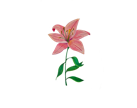
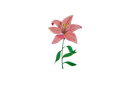
Mobile version.

diff --git a/index.html b/index.html
@@ -1,3 +1,3 @@
-<!DOCTYPE html><html><head><title></title><meta http-equiv="Content-type" content="text/html;charset=UTF-8" /><meta name="viewport" content="width=800" /><meta name="description" content="" /><meta name="generator" content="EverWeb 2.8.8 (2152)" /><meta name="buildDate" content="domingo, 2 de junio de 2024" /><link rel="canonical" href="https://gandg.art/" /><meta property="og:url" content="https://gandg.art/" /><meta property="og:type" content="website" /> <link rel="stylesheet" type="text/css" href="ew_css/textstyles.css?3800200639" /><link rel="stylesheet" type="text/css" href="ew_css/responsive.css?3800200639" /><script type="text/javascript" src="ew_js/imageCode.js"></script><style type="text/css">a img {border:0px;}body {background: url('images/gngloveart/browser/Fondo_Web-3.jpg') no-repeat center center fixed;-webkit-background-size: cover;-moz-background-size: cover;-o-background-size: cover;background-size: cover;background-color: #FFFEFE;margin: 0px auto;}div.container {margin: 0px auto;width: 800px;height: 1209px;}@media all and (max-device-width: 768px),(max-device-width: 568px),(max-device-width: 480px),(max-device-width: 667px),(max-device-width: 736px),(max-device-width: 360px)   {body {background: url('images/gngloveart/browser/Fondo_Web-3-768px.jpg') no-repeat center center fixed;-webkit-background-size: cover;-moz-background-size: cover;-o-background-size: cover;background-size: cover;background-color: #FFFEFE;}}.shape_0 {background-color:#FEFEFF;opacity: 1.00; filter:alpha(opacity=100);}#navmenu_menu0 {clear:both;float:left;margin:0;padding:0;width:100%;font-family:'Georgia',serif;font-size:19px;z-index:1000;}#navmenu_menu0 ul {margin:0;padding:0;list-style:none;position:relative;}#navmenu_menu0 ul li {margin:0 15px 0 0;padding:0;float:left;position:relative;}#navmenu_menu0 ul li a {display:block;margin:0;padding:11px;height: 44px;line-height: 44px;text-decoration:none;color:#FFFEFE;text-align: left;}#navmenu_menu0 ul li a:visited {text-decoration:none;color:#FFFEFE;}#navmenu_menu0 ul li a:hover {text-decoration:underline;color:#FFFEFE;}#navmenu_menu0 ul li:hover a,#navmenu_menu0 ul li.hover a {text-decoration:underline;color:#FFFEFE;}#navmenu_menu0 ul ul {z-index:11010;display:none;position:absolute;left:0;float:left;right:auto;padding-top:2px;}#navmenu_menu0 ul ul li {left:auto;margin:0;clear:left;float:left;width:100%;}#navmenu_menu0 ul ul li a,#navmenu_menu0 ul li.active li a,#navmenu_menu0 ul li:hover ul li a,#navmenu_menu0 ul li.hover ul li a {background:#FFFEFE;text-decoration:none;color:#FFFEFE;padding-top:0px;padding-bottom:0px;border-bottom:1px solid #000000;float:left;width:100%;text-align: left;white-space:nowrap;}#navmenu_menu0 ul ul li a:hover,#navmenu_menu0 ul li.active ul li a:hover,#navmenu_menu0 ul li:hover ul li a:hover,#navmenu_menu0 ul li.hover ul li a:hover {background:#FFFEFE;text-decoration:underline;color:#FFFEFE;float:left;}#navmenu_menu0 ul li.last ul {left:auto; right:0;}#navmenu_menu0 ul li.last ul li {float:right;position:relative;right:22px;}#navmenu_menu0 ul li:hover ul,#navmenu_menu0 ul li.hover ul {display:block;}</style></head><body><div class="container" style="height:1209px"><div class="content" data-minheight="500"><div style="position:relative"><div class="shape_0" style="left:1px;top:101px;width:520px;height:619px;z-index:0;position: absolute;"></div></div><div style="position:relative"><div class="shape_1" style="left:562.5078px;top:305.625px;width:237px;height:241px;z-index:1;position: absolute;"><img src="images/gngloveart/Logo_Turquesa.jpg" height="241" width="237" data-src2x="images/gngloveart/Logo_Turquesa@2x.jpg" srcset="images/gngloveart/Logo_Turquesa.jpg 1x, images/gngloveart/Logo_Turquesa@2x.jpg 2x" /></div></div><div style="position:relative"><a href="https://www.etsy.com/shop/GnGLoveArt/" class="outerlink"><div class="shape_2" style="left:396.5px;top:704.4375px;width:74px;height:59px;z-index:2;position: absolute;"><img src="images/gngloveart/Unknown-1-1.png" height="59" width="74" data-src2x="images/gngloveart/Unknown-1-1@2x.png" srcset="images/gngloveart/Unknown-1-1.png 1x, images/gngloveart/Unknown-1-1@2x.png 2x" /></div></a></div><div style="position:relative"><a href="https://www.amazon.es/Gema-Sánchez-Hernández/e/B083Q1P8VY?ref_=dbs_p_ebk_r00_abau_000000" class="outerlink"><div class="shape_3" style="left:47px;top:703.9685px;width:67px;height:60px;z-index:3;position: absolute;"><img src="images/gngloveart/Unknown.png" height="60" width="67" data-src2x="images/gngloveart/Unknown@2x.png" srcset="images/gngloveart/Unknown.png 1x, images/gngloveart/Unknown@2x.png 2x" /></div></a></div><div style="position:relative"><div class="shape_4" style="left:25px;top:126px;width:153px;height:153px;z-index:4;position: absolute;"><img src="images/gngloveart/DC1837AA-C5C0-4EF5-87EA-86BF50CD319F.png" height="153" width="153" data-src2x="images/gngloveart/DC1837AA-C5C0-4EF5-87EA-86BF50CD319F@2x.png" srcset="images/gngloveart/DC1837AA-C5C0-4EF5-87EA-86BF50CD319F.png 1x, images/gngloveart/DC1837AA-C5C0-4EF5-87EA-86BF50CD319F@2x.png 2x" /></div></div><div style="position:relative"><div class="shape_5" style="left:22.4375px;top:509.7498px;width:466px;height:76px;z-index:5;position: absolute;"><div style="padding: 2.16px 2.16px 2.16px 2.16px; "><p style="line-height:61px;margin-top:0px;margin-bottom:11px;" class="Style1">Yo soy la alegría de vivir en acción</p></div></div></div><div style="position:relative"><a href="https://www.amazon.es/Gema-Sánchez-Hernández/e/B083Q1P8VY?ref_=dbs_p_ebk_r00_abau_000000" class="outerlink"><div class="shape_6" style="left:25px;top:573px;width:121px;height:121px;z-index:6;position: absolute;"><img src="images/gngloveart/Libros_E_Ilustraciones 2.jpg" height="121" width="121" data-src2x="images/gngloveart/Libros_E_Ilustraciones 2@2x.jpg" srcset="images/gngloveart/Libros_E_Ilustraciones%202.jpg 1x, images/gngloveart/Libros_E_Ilustraciones%202@2x.jpg 2x" /></div></a></div><div style="position:relative"><a href="https://gabalz.gandg.ai" class="outerlink"><div class="shape_7" style="left:201px;top:573px;width:121px;height:121px;z-index:7;position: absolute;"><img src="images/gngloveart/Azucena 2.jpeg" height="121" width="121" data-src2x="images/gngloveart/Azucena 2@2x.jpeg" srcset="images/gngloveart/Azucena%202.jpeg 1x, images/gngloveart/Azucena%202@2x.jpeg 2x" /></div></a></div><div style="position:relative"><a href="https://www.etsy.com/shop/GnGLoveArt/" class="outerlink"><div class="shape_8" style="left:371px;top:573px;width:121px;height:121px;z-index:8;position: absolute;"><img src="images/gngloveart/Libros_E_Ilustraciones.jpg" height="121" width="121" data-src2x="images/gngloveart/Libros_E_Ilustraciones@2x.jpg" srcset="images/gngloveart/Libros_E_Ilustraciones.jpg 1x, images/gngloveart/Libros_E_Ilustraciones@2x.jpg 2x" /></div></a></div><div style="position:relative"><div class="shape_9" style="left:26px;top:297.1249px;width:486px;height:207px;z-index:9;position: absolute;"><div style="padding: 2.16px 2.16px 2.16px 2.16px; "><p style="line-height:24px;margin-top:0px;margin-bottom:14px;" class="Style2">Hola soy feliz de estar presente para compartir contigo la luz de mis historias. Escribir para mí es alquímico, me ayuda a poner luz en las sombras, me conecta con mi realidad, me permite viajar a otros mundos, conocer otras realidades, ser empática con lo que más me cuesta, estar abierta a lo desconocido y entregarle al mundo todo esto que recibo con tanta satisfacción. Me apasiona lo que hago, creo en la magia del amor y estoy felizmente casada con un genio de las matemáticas.   Gracias por leerme.</p></div></div></div><div style="position:relative"><div class="ewnavmenu" id="navmenu_menu0" style="left:609.75px;top:104px;height:390px;width:120px;z-index:10010;position: absolute;"><ul id="navigation_menu0"></ul></div></div><div style="position:relative"><div class="shape_11" style="left:562.0137px;top:546.0625px;width:238px;height:182px;z-index:11;position: absolute;"><img src="images/gngloveart/shape_11.png" height="182" width="238" alt="(placeholder)" data-src2x="images/gngloveart/shape_11@2x.png" srcset="images/gngloveart/shape_11.png 1x, images/gngloveart/shape_11@2x.png 2x" /></div></div><div style="position:relative"><div class="shape_12" style="left:562.0117px;top:102.2187px;width:238px;height:203px;z-index:12;position: absolute;"><img src="images/gngloveart/shape_12.png" height="203" width="238" alt="(placeholder)" data-src2x="images/gngloveart/shape_12@2x.png" srcset="images/gngloveart/shape_12.png 1x, images/gngloveart/shape_12@2x.png 2x" /></div></div><div style="position:relative"><div class="shape_13" style="left:186.4356px;top:117.625px;width:315px;height:143px;z-index:13;position: absolute;"><img src="images/gngloveart/Ilustracion_sin_titulo.jpeg" height="143" width="315" data-src2x="images/gngloveart/Ilustracion_sin_titulo@2x.jpeg" srcset="images/gngloveart/Ilustracion_sin_titulo.jpeg 1x, images/gngloveart/Ilustracion_sin_titulo@2x.jpeg 2x" /></div></div><div style="position:relative"><div class="shape_14" style="left:584.5002px;top:538px;width:199px;height:270px;z-index:14;position: absolute;"><img src="images/gngloveart/2_Rosa_Pleyadiana_Conexion-1.png" height="270" width="199" data-src2x="images/gngloveart/2_Rosa_Pleyadiana_Conexion-1@2x.png" srcset="images/gngloveart/2_Rosa_Pleyadiana_Conexion-1.png 1x, images/gngloveart/2_Rosa_Pleyadiana_Conexion-1@2x.png 2x" /></div></div><div style="position:relative"><div class="shape_15" style="left:487.5002px;top:614.0313px;width:75px;height:124px;z-index:15;position: absolute;"><img src="images/gngloveart/Amapola.png" height="124" width="75" data-src2x="images/gngloveart/Amapola@2x.png" srcset="images/gngloveart/Amapola.png 1x, images/gngloveart/Amapola@2x.png 2x" /></div></div><div style="position:relative"><div class="shape_16" style="left:447px;top:103px;width:125px;height:125px;z-index:16;position: absolute;"><img src="images/gngloveart/La_Mariposa.png" height="125" width="125" data-src2x="images/gngloveart/La_Mariposa@2x.png" srcset="images/gngloveart/La_Mariposa.png 1x, images/gngloveart/La_Mariposa@2x.png 2x" /></div></div><div style="position:relative"><a href="https://www.youtube.com/@gemasanchezescritora?app=desktop" class="outerlink"><div class="shape_17" style="left:225.625px;top:704.625px;width:69px;height:67px;z-index:17;position: absolute;"><img src="images/gngloveart/Unknown-2.png" height="67" width="69" data-src2x="images/gngloveart/Unknown-2@2x.png" srcset="images/gngloveart/Unknown-2.png 1x, images/gngloveart/Unknown-2@2x.png 2x" /></div></a></div><div style="position:relative"><div class="shape_18" style="left:595.4687px;top:553.25px;width:175px;height:42px;z-index:18;position: absolute;"><div style="padding: 0px 2.16px 0px 2.16px; "><p style="line-height:31px;text-align:center;margin-top:0px;margin-bottom:11px;" class="Style3">Gema Sánchez</p></div></div></div><div style="position:relative"><div style="left:12px;top:794.5px;height:315px;width:560px;position: absolute;z-index: 19;" class=""><!--560--!>
+<!DOCTYPE html><html><head><title></title><script type="text/javascript" src="ew_js/mobileRedirect.js"></script><script type="text/javascript">redirectURL('/gngloveart-movil.html');</script><link rel="alternate" media="only screen and (max-width: 700px)" href="/gngloveart-movil.html" /><meta http-equiv="Content-type" content="text/html;charset=UTF-8" /><meta name="viewport" content="width=800" /><meta name="description" content="" /><meta name="generator" content="EverWeb 2.8.8 (2152)" /><meta name="buildDate" content="domingo, 2 de junio de 2024" /><link rel="canonical" href="https://gandg.art/" /><meta property="og:url" content="https://gandg.art/" /><meta property="og:type" content="website" /> <link rel="stylesheet" type="text/css" href="ew_css/textstyles.css?3800204054" /><link rel="stylesheet" type="text/css" href="ew_css/responsive.css?3800204054" /><script type="text/javascript" src="ew_js/imageCode.js"></script><style type="text/css">a img {border:0px;}body {background: url('images/gngloveart/browser/Fondo_Web-3.jpg') no-repeat center center fixed;-webkit-background-size: cover;-moz-background-size: cover;-o-background-size: cover;background-size: cover;background-color: #FFFEFE;margin: 0px auto;}div.container {margin: 0px auto;width: 800px;height: 1209px;}@media all and (max-device-width: 768px),(max-device-width: 568px),(max-device-width: 480px),(max-device-width: 667px),(max-device-width: 736px),(max-device-width: 360px)   {body {background: url('images/gngloveart/browser/Fondo_Web-3-768px.jpg') no-repeat center center fixed;-webkit-background-size: cover;-moz-background-size: cover;-o-background-size: cover;background-size: cover;background-color: #FFFEFE;}}.shape_0 {background-color:#FEFEFF;opacity: 1.00; filter:alpha(opacity=100);}#navmenu_menu0 {clear:both;float:left;margin:0;padding:0;width:100%;font-family:'Georgia',serif;font-size:19px;z-index:1000;}#navmenu_menu0 ul {margin:0;padding:0;list-style:none;position:relative;}#navmenu_menu0 ul li {margin:0 15px 0 0;padding:0;float:left;position:relative;}#navmenu_menu0 ul li a {display:block;margin:0;padding:11px;height: 44px;line-height: 44px;text-decoration:none;color:#FFFEFE;text-align: left;}#navmenu_menu0 ul li a:visited {text-decoration:none;color:#FFFEFE;}#navmenu_menu0 ul li a:hover {text-decoration:underline;color:#FFFEFE;}#navmenu_menu0 ul li:hover a,#navmenu_menu0 ul li.hover a {text-decoration:underline;color:#FFFEFE;}#navmenu_menu0 ul ul {z-index:11010;display:none;position:absolute;left:0;float:left;right:auto;padding-top:2px;}#navmenu_menu0 ul ul li {left:auto;margin:0;clear:left;float:left;width:100%;}#navmenu_menu0 ul ul li a,#navmenu_menu0 ul li.active li a,#navmenu_menu0 ul li:hover ul li a,#navmenu_menu0 ul li.hover ul li a {background:#FFFEFE;text-decoration:none;color:#FFFEFE;padding-top:0px;padding-bottom:0px;border-bottom:1px solid #000000;float:left;width:100%;text-align: left;white-space:nowrap;}#navmenu_menu0 ul ul li a:hover,#navmenu_menu0 ul li.active ul li a:hover,#navmenu_menu0 ul li:hover ul li a:hover,#navmenu_menu0 ul li.hover ul li a:hover {background:#FFFEFE;text-decoration:underline;color:#FFFEFE;float:left;}#navmenu_menu0 ul li.last ul {left:auto; right:0;}#navmenu_menu0 ul li.last ul li {float:right;position:relative;right:22px;}#navmenu_menu0 ul li:hover ul,#navmenu_menu0 ul li.hover ul {display:block;}</style></head><body><div class="container" style="height:1209px"><div class="content" data-minheight="500"><div style="position:relative"><div class="shape_0" style="left:1px;top:101px;width:520px;height:619px;z-index:0;position: absolute;"></div></div><div style="position:relative"><div class="shape_1" style="left:546.5078px;top:305.625px;width:237px;height:241px;z-index:1;position: absolute;"><img src="images/gngloveart/Logo_Turquesa.jpg" height="241" width="237" data-src2x="images/gngloveart/Logo_Turquesa@2x.jpg" srcset="images/gngloveart/Logo_Turquesa.jpg 1x, images/gngloveart/Logo_Turquesa@2x.jpg 2x" /></div></div><div style="position:relative"><a href="https://www.etsy.com/shop/GnGLoveArt/" class="outerlink"><div class="shape_2" style="left:396.5px;top:704.4375px;width:74px;height:59px;z-index:2;position: absolute;"><img src="images/gngloveart/Unknown-1-1.png" height="59" width="74" data-src2x="images/gngloveart/Unknown-1-1@2x.png" srcset="images/gngloveart/Unknown-1-1.png 1x, images/gngloveart/Unknown-1-1@2x.png 2x" /></div></a></div><div style="position:relative"><a href="https://www.amazon.es/Gema-Sánchez-Hernández/e/B083Q1P8VY?ref_=dbs_p_ebk_r00_abau_000000" class="outerlink"><div class="shape_3" style="left:47px;top:703.9685px;width:67px;height:60px;z-index:3;position: absolute;"><img src="images/gngloveart/Unknown.png" height="60" width="67" data-src2x="images/gngloveart/Unknown@2x.png" srcset="images/gngloveart/Unknown.png 1x, images/gngloveart/Unknown@2x.png 2x" /></div></a></div><div style="position:relative"><div class="shape_4" style="left:25px;top:126px;width:153px;height:153px;z-index:4;position: absolute;"><img src="images/gngloveart/DC1837AA-C5C0-4EF5-87EA-86BF50CD319F.png" height="153" width="153" data-src2x="images/gngloveart/DC1837AA-C5C0-4EF5-87EA-86BF50CD319F@2x.png" srcset="images/gngloveart/DC1837AA-C5C0-4EF5-87EA-86BF50CD319F.png 1x, images/gngloveart/DC1837AA-C5C0-4EF5-87EA-86BF50CD319F@2x.png 2x" /></div></div><div style="position:relative"><div class="shape_5" style="left:22.4375px;top:509.7498px;width:466px;height:76px;z-index:5;position: absolute;"><div style="padding: 2.16px 2.16px 2.16px 2.16px; "><p style="line-height:61px;margin-top:0px;margin-bottom:11px;" class="Style1">Yo soy la alegría de vivir en acción</p></div></div></div><div style="position:relative"><a href="https://www.amazon.es/Gema-Sánchez-Hernández/e/B083Q1P8VY?ref_=dbs_p_ebk_r00_abau_000000" class="outerlink"><div class="shape_6" style="left:25px;top:573px;width:121px;height:121px;z-index:6;position: absolute;"><img src="images/gngloveart/Libros_E_Ilustraciones 2.jpg" height="121" width="121" data-src2x="images/gngloveart/Libros_E_Ilustraciones 2@2x.jpg" srcset="images/gngloveart/Libros_E_Ilustraciones%202.jpg 1x, images/gngloveart/Libros_E_Ilustraciones%202@2x.jpg 2x" /></div></a></div><div style="position:relative"><a href="https://gabalz.gandg.ai" class="outerlink"><div class="shape_7" style="left:201px;top:573px;width:121px;height:121px;z-index:7;position: absolute;"><img src="images/gngloveart/Azucena 2.jpeg" height="121" width="121" data-src2x="images/gngloveart/Azucena 2@2x.jpeg" srcset="images/gngloveart/Azucena%202.jpeg 1x, images/gngloveart/Azucena%202@2x.jpeg 2x" /></div></a></div><div style="position:relative"><a href="https://www.etsy.com/shop/GnGLoveArt/" class="outerlink"><div class="shape_8" style="left:371px;top:573px;width:121px;height:121px;z-index:8;position: absolute;"><img src="images/gngloveart/Libros_E_Ilustraciones.jpg" height="121" width="121" data-src2x="images/gngloveart/Libros_E_Ilustraciones@2x.jpg" srcset="images/gngloveart/Libros_E_Ilustraciones.jpg 1x, images/gngloveart/Libros_E_Ilustraciones@2x.jpg 2x" /></div></a></div><div style="position:relative"><div class="shape_9" style="left:26px;top:297.1249px;width:486px;height:207px;z-index:9;position: absolute;"><div style="padding: 2.16px 2.16px 2.16px 2.16px; "><p style="line-height:24px;margin-top:0px;margin-bottom:14px;" class="Style2">Hola soy feliz de estar presente para compartir contigo la luz de mis historias. Escribir para mí es alquímico, me ayuda a poner luz en las sombras, me conecta con mi realidad, me permite viajar a otros mundos, conocer otras realidades, ser empática con lo que más me cuesta, estar abierta a lo desconocido y entregarle al mundo todo esto que recibo con tanta satisfacción. Me apasiona lo que hago, creo en la magia del amor y estoy felizmente casada con un genio de las matemáticas.   Gracias por leerme.</p></div></div></div><div style="position:relative"><div class="ewnavmenu" id="navmenu_menu0" style="left:609.75px;top:104px;height:390px;width:120px;z-index:10010;position: absolute;"><ul id="navigation_menu0"></ul></div></div><div style="position:relative"><div class="shape_11" style="left:546.0137px;top:548.0625px;width:238px;height:182px;z-index:11;position: absolute;"><img src="images/gngloveart/shape_11.png" height="182" width="238" alt="(placeholder)" data-src2x="images/gngloveart/shape_11@2x.png" srcset="images/gngloveart/shape_11.png 1x, images/gngloveart/shape_11@2x.png 2x" /></div></div><div style="position:relative"><div class="shape_12" style="left:547.0117px;top:104.2187px;width:238px;height:203px;z-index:12;position: absolute;"><img src="images/gngloveart/shape_12.png" height="203" width="238" alt="(placeholder)" data-src2x="images/gngloveart/shape_12@2x.png" srcset="images/gngloveart/shape_12.png 1x, images/gngloveart/shape_12@2x.png 2x" /></div></div><div style="position:relative"><div class="shape_13" style="left:186.4356px;top:117.625px;width:315px;height:143px;z-index:13;position: absolute;"><img src="images/gngloveart/Ilustracion_sin_titulo.jpeg" height="143" width="315" data-src2x="images/gngloveart/Ilustracion_sin_titulo@2x.jpeg" srcset="images/gngloveart/Ilustracion_sin_titulo.jpeg 1x, images/gngloveart/Ilustracion_sin_titulo@2x.jpeg 2x" /></div></div><div style="position:relative"><div class="shape_14" style="left:571.5002px;top:540px;width:199px;height:270px;z-index:14;position: absolute;"><img src="images/gngloveart/2_Rosa_Pleyadiana_Conexion-1.png" height="270" width="199" data-src2x="images/gngloveart/2_Rosa_Pleyadiana_Conexion-1@2x.png" srcset="images/gngloveart/2_Rosa_Pleyadiana_Conexion-1.png 1x, images/gngloveart/2_Rosa_Pleyadiana_Conexion-1@2x.png 2x" /></div></div><div style="position:relative"><div class="shape_15" style="left:487.5002px;top:614.0313px;width:75px;height:124px;z-index:15;position: absolute;"><img src="images/gngloveart/Amapola.png" height="124" width="75" data-src2x="images/gngloveart/Amapola@2x.png" srcset="images/gngloveart/Amapola.png 1x, images/gngloveart/Amapola@2x.png 2x" /></div></div><div style="position:relative"><div class="shape_16" style="left:447px;top:103px;width:125px;height:125px;z-index:16;position: absolute;"><img src="images/gngloveart/La_Mariposa.png" height="125" width="125" data-src2x="images/gngloveart/La_Mariposa@2x.png" srcset="images/gngloveart/La_Mariposa.png 1x, images/gngloveart/La_Mariposa@2x.png 2x" /></div></div><div style="position:relative"><a href="https://www.youtube.com/@gemasanchezescritora?app=desktop" class="outerlink"><div class="shape_17" style="left:225.625px;top:704.625px;width:69px;height:67px;z-index:17;position: absolute;"><img src="images/gngloveart/Unknown-2.png" height="67" width="69" data-src2x="images/gngloveart/Unknown-2@2x.png" srcset="images/gngloveart/Unknown-2.png 1x, images/gngloveart/Unknown-2@2x.png 2x" /></div></a></div><div style="position:relative"><div class="shape_18" style="left:577.4687px;top:553.25px;width:175px;height:42px;z-index:18;position: absolute;"><div style="padding: 0px 2.16px 0px 2.16px; "><p style="line-height:31px;text-align:center;margin-top:0px;margin-bottom:11px;" class="Style3">Gema Sánchez</p></div></div></div><div style="position:relative"><div style="left:104px;top:794.5px;height:315px;width:560px;position: absolute;z-index: 19;" class=""><!--560--!>
 	<iframe width="560" height="315" src="https://www.youtube.com/embed/GpOBI6kRQx4?wmode=transparent&rel=0" frameborder="0" allowfullscreen></iframe>
-	</div></div><div style="position:relative"><div class="shape_20" style="left:260.5px;top:204px;width:137px;height:108px;z-index:20;position: absolute;"><img src="images/gngloveart/Lirio_Estrella.png" height="108" width="137" data-src2x="images/gngloveart/Lirio_Estrella@2x.png" srcset="images/gngloveart/Lirio_Estrella.png 1x, images/gngloveart/Lirio_Estrella@2x.png 2x" /></div></div><div style="position:relative"><div class="shape_21" style="left:170.4922px;top:256px;width:351px;height:50px;z-index:21;position: absolute;"><div style="padding: 4.32px 2.16px 4.32px 2.16px; "><p style="line-height:25.2px;text-align:center;margin-top:0px;margin-bottom:11px;" class="Style4">Escritora&nbsp;&nbsp; Ilustradora</p></div></div></div><div style="position:relative"><div class="shape_22" style="left:601.8751px;top:146px;width:158px;height:160px;z-index:22;position: absolute;"><img src="images/gngloveart/Gea.png" height="160" width="158" data-src2x="images/gngloveart/Gea@2x.png" srcset="images/gngloveart/Gea.png 1x, images/gngloveart/Gea@2x.png 2x" /></div></div><div style="position:relative"><div class="shape_23" style="left:398.1251px;top:460.5078px;width:104px;height:113px;z-index:23;position: absolute;"><img src="images/gngloveart/Margarita-2.png" height="113" width="104" data-src2x="images/gngloveart/Margarita-2@2x.png" srcset="images/gngloveart/Margarita-2.png 1x, images/gngloveart/Margarita-2@2x.png 2x" /></div></div></div><footer data-top='1109' data-height='100'></footer></div></body></html>
+	</div></div><div style="position:relative"><div class="shape_20" style="left:261.25px;top:210.5px;width:129px;height:87px;z-index:20;position: absolute;"><img src="images/gngloveart/Lirio_Estrella.png" height="87" width="129" data-src2x="images/gngloveart/Lirio_Estrella@2x.png" srcset="images/gngloveart/Lirio_Estrella.png 1x, images/gngloveart/Lirio_Estrella@2x.png 2x" /></div></div><div style="position:relative"><div class="shape_21" style="left:171.2186px;top:252.5px;width:341px;height:45px;z-index:21;position: absolute;"><div style="padding: 4.32px 2.16px 4.32px 2.16px; "><p style="line-height:25.2px;text-align:center;margin-top:0px;margin-bottom:11px;" class="Style4">Escritora&nbsp;&nbsp; Ilustradora</p></div></div></div><div style="position:relative"><div class="shape_22" style="left:586.8751px;top:153px;width:158px;height:160px;z-index:22;position: absolute;"><img src="images/gngloveart/Gea.png" height="160" width="158" data-src2x="images/gngloveart/Gea@2x.png" srcset="images/gngloveart/Gea.png 1x, images/gngloveart/Gea@2x.png 2x" /></div></div><div style="position:relative"><div class="shape_23" style="left:398.1251px;top:460.5078px;width:104px;height:113px;z-index:23;position: absolute;"><img src="images/gngloveart/Margarita-2.png" height="113" width="104" data-src2x="images/gngloveart/Margarita-2@2x.png" srcset="images/gngloveart/Margarita-2.png 1x, images/gngloveart/Margarita-2@2x.png 2x" /></div></div></div><footer data-top='1109' data-height='100'></footer></div></body></html>

diff --git a/gngloveart-movil.html b/gngloveart-movil.html
@@ -1,0 +1,3 @@
+<!DOCTYPE html><html><head><title></title><link rel="canonical" href="/index.html" /><meta http-equiv="Content-type" content="text/html;charset=UTF-8" /><meta name="viewport" content="width=480, user-scalable=no" /><meta name="description" content="" /><meta name="generator" content="EverWeb 2.8.8 (2152)" /><meta name="buildDate" content="domingo, 2 de junio de 2024" /><meta property="og:url" content="https://gandg.art/gngloveart-movil.html" /><meta property="og:type" content="website" /> <link rel="stylesheet" type="text/css" href="ew_css/textstyles.css?3800204054" /><link rel="stylesheet" type="text/css" href="ew_css/responsive.css?3800204054" /><script type="text/javascript" src="ew_js/imageCode.js"></script><style type="text/css">a img {border:0px;}body {background: url('images/gngloveart-movil/browser/Fondo_Web-3.jpg') no-repeat center center fixed;-webkit-background-size: cover;-moz-background-size: cover;-o-background-size: cover;background-size: cover;background-color: #FFFEFE;margin: 0px auto;}div.container {margin: 0px auto;width: 480px;height: 1210px;}@media all and (max-device-width: 768px),(max-device-width: 568px),(max-device-width: 480px),(max-device-width: 667px),(max-device-width: 736px),(max-device-width: 360px)   {body {background: url('images/gngloveart-movil/browser/Fondo_Web-3-768px.jpg') no-repeat center center fixed;-webkit-background-size: cover;-moz-background-size: cover;-o-background-size: cover;background-size: cover;background-color: #FFFEFE;}}.shape_0 {background-color:#FEFEFF;opacity: 1.00; filter:alpha(opacity=100);}</style></head><body><div class="container" style="height:1210px"><div class="content" data-minheight="500"><div style="position:relative"><div class="shape_0" style="left:0px;top:103px;width:520px;height:619px;z-index:0;position: absolute;"></div></div><div style="position:relative"><a href="https://www.etsy.com/shop/GnGLoveArt/" class="outerlink"><div class="shape_1" style="left:396.5px;top:704.4375px;width:74px;height:59px;z-index:1;position: absolute;"><img src="images/gngloveart-movil/Unknown-1-1.png" height="59" width="74" data-src2x="images/gngloveart-movil/Unknown-1-1@2x.png" srcset="images/gngloveart-movil/Unknown-1-1.png 1x, images/gngloveart-movil/Unknown-1-1@2x.png 2x" /></div></a></div><div style="position:relative"><a href="https://www.amazon.es/Gema-Sánchez-Hernández/e/B083Q1P8VY?ref_=dbs_p_ebk_r00_abau_000000" class="outerlink"><div class="shape_2" style="left:47px;top:703.9685px;width:67px;height:60px;z-index:2;position: absolute;"><img src="images/gngloveart-movil/Unknown.png" height="60" width="67" data-src2x="images/gngloveart-movil/Unknown@2x.png" srcset="images/gngloveart-movil/Unknown.png 1x, images/gngloveart-movil/Unknown@2x.png 2x" /></div></a></div><div style="position:relative"><div class="shape_3" style="left:25px;top:126px;width:153px;height:153px;z-index:3;position: absolute;"><img src="images/gngloveart-movil/DC1837AA-C5C0-4EF5-87EA-86BF50CD319F.png" height="153" width="153" data-src2x="images/gngloveart-movil/DC1837AA-C5C0-4EF5-87EA-86BF50CD319F@2x.png" srcset="images/gngloveart-movil/DC1837AA-C5C0-4EF5-87EA-86BF50CD319F.png 1x, images/gngloveart-movil/DC1837AA-C5C0-4EF5-87EA-86BF50CD319F@2x.png 2x" /></div></div><div style="position:relative"><div class="shape_4" style="left:26.4688px;top:502.7498px;width:308px;height:76px;z-index:4;position: absolute;"><div style="padding: 2.16px 2.16px 2.16px 2.16px; "><p style="line-height:47px;margin-top:0px;margin-bottom:11px;" class="Style5">Yo soy la alegría de vivir en acción</p></div></div></div><div style="position:relative"><a href="https://www.amazon.es/Gema-Sánchez-Hernández/e/B083Q1P8VY?ref_=dbs_p_ebk_r00_abau_000000" class="outerlink"><div class="shape_5" style="left:25px;top:573px;width:121px;height:121px;z-index:5;position: absolute;"><img src="images/gngloveart-movil/Libros_E_Ilustraciones 2.jpg" height="121" width="121" data-src2x="images/gngloveart-movil/Libros_E_Ilustraciones 2@2x.jpg" srcset="images/gngloveart-movil/Libros_E_Ilustraciones%202.jpg 1x, images/gngloveart-movil/Libros_E_Ilustraciones%202@2x.jpg 2x" /></div></a></div><div style="position:relative"><a href="https://gabalz.gandg.ai" class="outerlink"><div class="shape_6" style="left:201px;top:573px;width:121px;height:121px;z-index:6;position: absolute;"><img src="images/gngloveart-movil/Azucena 2.jpeg" height="121" width="121" data-src2x="images/gngloveart-movil/Azucena 2@2x.jpeg" srcset="images/gngloveart-movil/Azucena%202.jpeg 1x, images/gngloveart-movil/Azucena%202@2x.jpeg 2x" /></div></a></div><div style="position:relative"><a href="https://www.etsy.com/shop/GnGLoveArt/" class="outerlink"><div class="shape_7" style="left:358px;top:573px;width:121px;height:121px;z-index:7;position: absolute;"><img src="images/gngloveart-movil/Libros_E_Ilustraciones.jpg" height="121" width="121" data-src2x="images/gngloveart-movil/Libros_E_Ilustraciones@2x.jpg" srcset="images/gngloveart-movil/Libros_E_Ilustraciones.jpg 1x, images/gngloveart-movil/Libros_E_Ilustraciones@2x.jpg 2x" /></div></a></div><div style="position:relative"><div class="shape_8" style="left:20px;top:295.1249px;width:460px;height:207px;z-index:8;position: absolute;"><div style="padding: 2.16px 2.16px 2.16px 2.16px; "><p style="line-height:24px;margin-top:0px;margin-bottom:14px;" class="Style2">Hola soy feliz de estar presente para compartir contigo la luz de mis historias. Escribir para mí es alquímico, me ayuda a poner luz en las sombras, me conecta con mi realidad, me permite viajar a otros mundos, conocer otras realidades, ser empática con lo que más me cuesta, estar abierta a lo desconocido y entregarle al mundo todo esto que recibo con tanta satisfacción. Me apasiona lo que hago, creo en la magia del amor y estoy felizmente casada con un genio de las matemáticas.   Gracias por leerme.</p></div></div></div><div style="position:relative"><div class="shape_9" style="left:185.7339px;top:141.0312px;width:278px;height:100px;z-index:9;position: absolute;"><img src="images/gngloveart-movil/Ilustracion_sin_titulo.jpeg" height="100" width="278" data-src2x="images/gngloveart-movil/Ilustracion_sin_titulo@2x.jpeg" srcset="images/gngloveart-movil/Ilustracion_sin_titulo.jpeg 1x, images/gngloveart-movil/Ilustracion_sin_titulo@2x.jpeg 2x" /></div></div><div style="position:relative"><div class="shape_10" style="left:340.2501px;top:669px;width:46px;height:60px;z-index:10;position: absolute;"><img src="images/gngloveart-movil/Amapola.png" height="60" width="46" data-src2x="images/gngloveart-movil/Amapola@2x.png" srcset="images/gngloveart-movil/Amapola.png 1x, images/gngloveart-movil/Amapola@2x.png 2x" /></div></div><div style="position:relative"><div class="shape_11" style="left:414px;top:126.625px;width:66px;height:95px;z-index:11;position: absolute;"><img src="images/gngloveart-movil/La_Mariposa.png" height="95" width="66" data-src2x="images/gngloveart-movil/La_Mariposa@2x.png" srcset="images/gngloveart-movil/La_Mariposa.png 1x, images/gngloveart-movil/La_Mariposa@2x.png 2x" /></div></div><div style="position:relative"><a href="https://www.youtube.com/@gemasanchezescritora?app=desktop" class="outerlink"><div class="shape_12" style="left:225.625px;top:704.625px;width:69px;height:67px;z-index:12;position: absolute;"><img src="images/gngloveart-movil/Unknown-2.png" height="67" width="69" data-src2x="images/gngloveart-movil/Unknown-2@2x.png" srcset="images/gngloveart-movil/Unknown-2.png 1x, images/gngloveart-movil/Unknown-2@2x.png 2x" /></div></a></div><div style="position:relative"><div class="shape_13" style="left:165.4687px;top:687.75px;width:175px;height:35px;z-index:13;position: absolute;"><div style="padding: 0px 2.16px 0px 2.16px; "><p style="line-height:24px;text-align:center;margin-top:0px;margin-bottom:11px;" class="Style6">Gema Sánchez</p></div></div></div><div style="position:relative"><div style="left:-0.5px;top:793px;height:317px;width:480px;position: absolute;z-index: 14;" class=""><!--480--!>
+	<iframe width="480" height="317" src="https://www.youtube.com/embed/GpOBI6kRQx4?wmode=transparent&rel=0" frameborder="0" allowfullscreen></iframe>
+	</div></div><div style="position:relative"><div class="shape_15" style="left:259.5px;top:213.5px;width:117px;height:75px;z-index:15;position: absolute;"><img src="images/gngloveart-movil/Lirio_Estrella.png" height="75" width="117" data-src2x="images/gngloveart-movil/Lirio_Estrella@2x.png" srcset="images/gngloveart-movil/Lirio_Estrella.png 1x, images/gngloveart-movil/Lirio_Estrella@2x.png 2x" /></div></div><div style="position:relative"><div class="shape_16" style="left:177.7481px;top:240.5px;width:302px;height:39px;z-index:16;position: absolute;"><div style="padding: 4.32px 2.16px 4.32px 2.16px; "><p style="line-height:19.53px;text-align:center;margin-top:0px;margin-bottom:11px;" class="Style7">Escritora&nbsp;&nbsp; Ilustradora</p></div></div></div><div style="position:relative"><div class="shape_17" style="left:358px;top:453.5px;width:121px;height:125px;z-index:17;position: absolute;"><img src="images/gngloveart-movil/Logo_Turquesa.png" height="125" width="121" data-src2x="images/gngloveart-movil/Logo_Turquesa@2x.png" srcset="images/gngloveart-movil/Logo_Turquesa.png 1x, images/gngloveart-movil/Logo_Turquesa@2x.png 2x" /></div></div><div style="position:relative"><div class="shape_18" style="left:122.0005px;top:647.5px;width:64px;height:109px;z-index:18;position: absolute;"><img src="images/gngloveart-movil/2._Rosa_Pleyadiana_Conexion-2.png" height="109" width="64" alt="rosa pleyadiana" data-src2x="images/gngloveart-movil/2._Rosa_Pleyadiana_Conexion-2@2x.png" srcset="images/gngloveart-movil/2._Rosa_Pleyadiana_Conexion-2.png 1x, images/gngloveart-movil/2._Rosa_Pleyadiana_Conexion-2@2x.png 2x" /></div></div></div><footer data-top='1110' data-height='100'></footer></div></body></html>

diff --git a/ew_css/textstyles.css b/ew_css/textstyles.css
@@ -14,7 +14,24 @@ margin:0;
 color: #09C8C9;
 word-wrap: break-word;}
 .Style4{font-family: 'AcademyEngravedLetPlain','Academy Engraved LET';
-font-size: 34px; 
+font-size: 33px; 
+font-weight:700; 
+margin:0;
+color: #14A6AF;
+word-wrap: break-word;}
+.Style5{font-family: 'Zapfino';
+font-size: 14px; 
+font-weight:700; 
+margin:0;
+color: #14A6AE;
+word-wrap: break-word;}
+.Style6{font-family: 'AcademyEngravedLetPlain','Academy Engraved LET';
+font-size: 20px; 
+margin:0;
+color: #09C8C9;
+word-wrap: break-word;}
+.Style7{font-family: 'AcademyEngravedLetPlain','Academy Engraved LET';
+font-size: 26px; 
 font-weight:700; 
 margin:0;
 color: #14A6AF;
